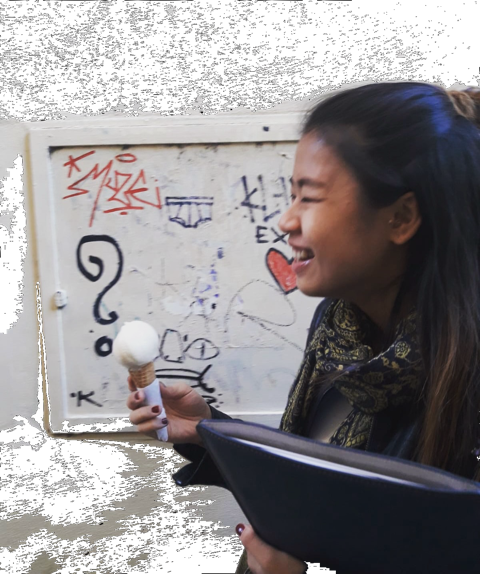
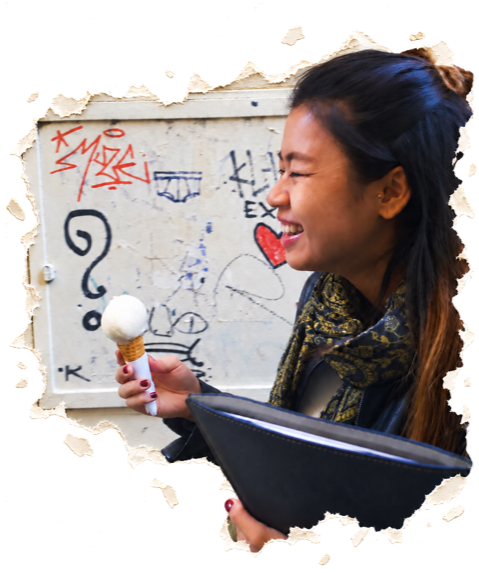
feat(about): use Echo's torn-paper cut for the header image
Her edit, with a torn paper edge rather than the scratchy stipple.

It arrived as a PNG with no alpha channel. The editor had drawn its own
transparency checkerboard into the pixels, so shipping the file as supplied
would have put a grey chequer across the top of the page. Caught by asking
sips rather than by trusting the preview, which shows a chequer either way.

scripts/floodneutral.swift keys it back out. The chequer and the torn paper
are both light, so brightness alone cannot separate them, but the chequer is
drawn and therefore perfectly neutral while paper photographed indoors is
warm. Flooding in from the border on "light AND neutral" removes the chequer
and leaves the paper edge untouched.

479x573, transparent, 403KB.

One thing worth recording rather than hiding: comparing the same crop
against the original, this version is visibly sharper, with crisper
eyelashes and skin detail. The editor re-rendered the photograph rather than
only adding a border, so some of that detail is synthesised. Same face, same
moment, and it is a treatment of a real photograph rather than a fabricated
one, but on a page arguing that its contents were made by hand the
distinction is worth knowing.

Claude-Session: https://claude.ai/code/session_01QGgfN5cZWKRdSW6FQvQch3

diff --git a/scripts/floodneutral.swift b/scripts/floodneutral.swift
@@ -1,0 +1,68 @@
+// Key a painted-on transparency checkerboard back out to real transparency.
+//
+// An image exported without an alpha channel can still LOOK cut out: the
+// editor draws its checkerboard into the pixels. Using that file puts a grey
+// chequer pattern on the page.
+//
+// The checkerboard is discriminable from the picture by two properties at
+// once: it is light, and it is perfectly NEUTRAL (r == g == b), because it is
+// drawn rather than photographed. Paper and walls photographed indoors are
+// warm, with red above blue by a noticeable margin. Flooding in from the
+// border on "light and neutral" therefore removes the chequer without
+// touching the torn paper edge next to it.
+import Foundation
+import CoreGraphics
+import ImageIO
+import UniformTypeIdentifiers
+
+let args = CommandLine.arguments
+guard args.count >= 5 else {
+    FileHandle.standardError.write("usage: floodneutral <in> <out.png> <minLuma> <maxChroma>\n".data(using: .utf8)!)
+    exit(2)
+}
+let minLuma = Int(args[3]) ?? 190
+let maxChroma = Int(args[4]) ?? 6
+
+let data = try Data(contentsOf: URL(fileURLWithPath: args[1]))
+guard let provider = CGDataProvider(data: data as CFData),
+      let src = CGImage(pngDataProviderSource: provider, decode: nil, shouldInterpolate: false, intent: .defaultIntent)
+        ?? CGImage(jpegDataProviderSource: provider, decode: nil, shouldInterpolate: false, intent: .defaultIntent) else {
+    FileHandle.standardError.write("cannot decode\n".data(using: .utf8)!); exit(1)
+}
+
+let w = src.width, h = src.height
+var px = [UInt8](repeating: 0, count: w * h * 4)
+guard let ctx = CGContext(data: &px, width: w, height: h, bitsPerComponent: 8, bytesPerRow: w * 4,
+                          space: CGColorSpaceCreateDeviceRGB(),
+                          bitmapInfo: CGImageAlphaInfo.premultipliedLast.rawValue) else { exit(1) }
+ctx.draw(src, in: CGRect(x: 0, y: 0, width: w, height: h))
+
+func isChecker(_ i: Int) -> Bool {
+    let r = Int(px[i * 4]), g = Int(px[i * 4 + 1]), b = Int(px[i * 4 + 2])
+    let luma = (r * 299 + g * 587 + b * 114) / 1000
+    let chroma = max(max(abs(r - g), abs(g - b)), abs(r - b))
+    return luma >= minLuma && chroma <= maxChroma
+}
+
+var outside = [Bool](repeating: false, count: w * h)
+var stack: [Int] = []
+for x in 0..<w { for y in [0, h - 1] { let i = y * w + x; if isChecker(i) && !outside[i] { outside[i] = true; stack.append(i) } } }
+for y in 0..<h { for x in [0, w - 1] { let i = y * w + x; if isChecker(i) && !outside[i] { outside[i] = true; stack.append(i) } } }
+while let i = stack.popLast() {
+    let x = i % w, y = i / w
+    for (dx, dy) in [(1, 0), (-1, 0), (0, 1), (0, -1)] {
+        let nx = x + dx, ny = y + dy
+        guard nx >= 0, nx < w, ny >= 0, ny < h else { continue }
+        let j = ny * w + nx
+        if !outside[j] && isChecker(j) { outside[j] = true; stack.append(j) }
+    }
+}
+var cleared = 0
+for i in 0..<(w * h) where outside[i] {
+    px[i * 4] = 0; px[i * 4 + 1] = 0; px[i * 4 + 2] = 0; px[i * 4 + 3] = 0; cleared += 1
+}
+guard let outImg = ctx.makeImage(),
+      let dest = CGImageDestinationCreateWithURL(URL(fileURLWithPath: args[2]) as CFURL, UTType.png.identifier as CFString, 1, nil) else { exit(1) }
+CGImageDestinationAddImage(dest, outImg, nil)
+CGImageDestinationFinalize(dest)
+print("cleared \(cleared * 100 / (w * h))% of the frame")

diff --git a/src/content/about.config.ts b/src/content/about.config.ts
@@ -35,18 +35,19 @@ export const aboutConfig = {
     "The clay bust, the pasta painting and the charcoal head were made there. The ink drawing of a mouth was made on a plane, and the airport is Jakarta.",
   ],
 
-  // Cut out of its background, so she stands on the page rather than sitting
-  // in a photograph on it.
+  // Echo's own cut, with a torn paper edge.
   //
-  // Genuinely transparent, not flattened onto the page colour, so the
-  // plaster grain shows through the gaps in the stipple. That costs: the
-  // torn edge is thousands of tiny alpha transitions, which is the one
-  // thing PNG compresses badly, and at full size it came to 957KB. Running
-  // the image visually smaller is what makes it affordable, 477KB at 480px
-  // wide, which covers the 15rem slot at 2x.
+  // It arrived as a PNG with NO alpha channel: the editor had drawn its
+  // transparency checkerboard into the pixels, so shipping it as supplied
+  // would have put a grey chequer on the page. scripts/floodneutral.swift
+  // keys it back out, flooding in from the border on "light AND perfectly
+  // neutral", which the drawn chequer is and the photographed paper is not.
   //
-  // No caption. The photograph is not evidence of anything and does not need
-  // dating: it is her, and that is the whole job.
+  // Transparent rather than flattened onto the page colour, so the plaster
+  // grain shows through. That costs: a torn edge is thousands of tiny alpha
+  // transitions, the one thing PNG compresses badly. Running the photograph
+  // visually small is what makes it affordable.
+  //
   portrait: {
     src: "assets/echo-florence.png",
     alt: "Echo laughing, holding a gelato, in front of a graffitied wall",

diff --git a/src/routes/about/+page.svelte b/src/routes/about/+page.svelte
@@ -24,8 +24,8 @@
         <img
           src="{base}/{aboutConfig.portrait.src}"
           alt={aboutConfig.portrait.alt}
-          width="480"
-          height="574"
+          width="479"
+          height="573"
           draggable="false"
           decoding="async"
         />
